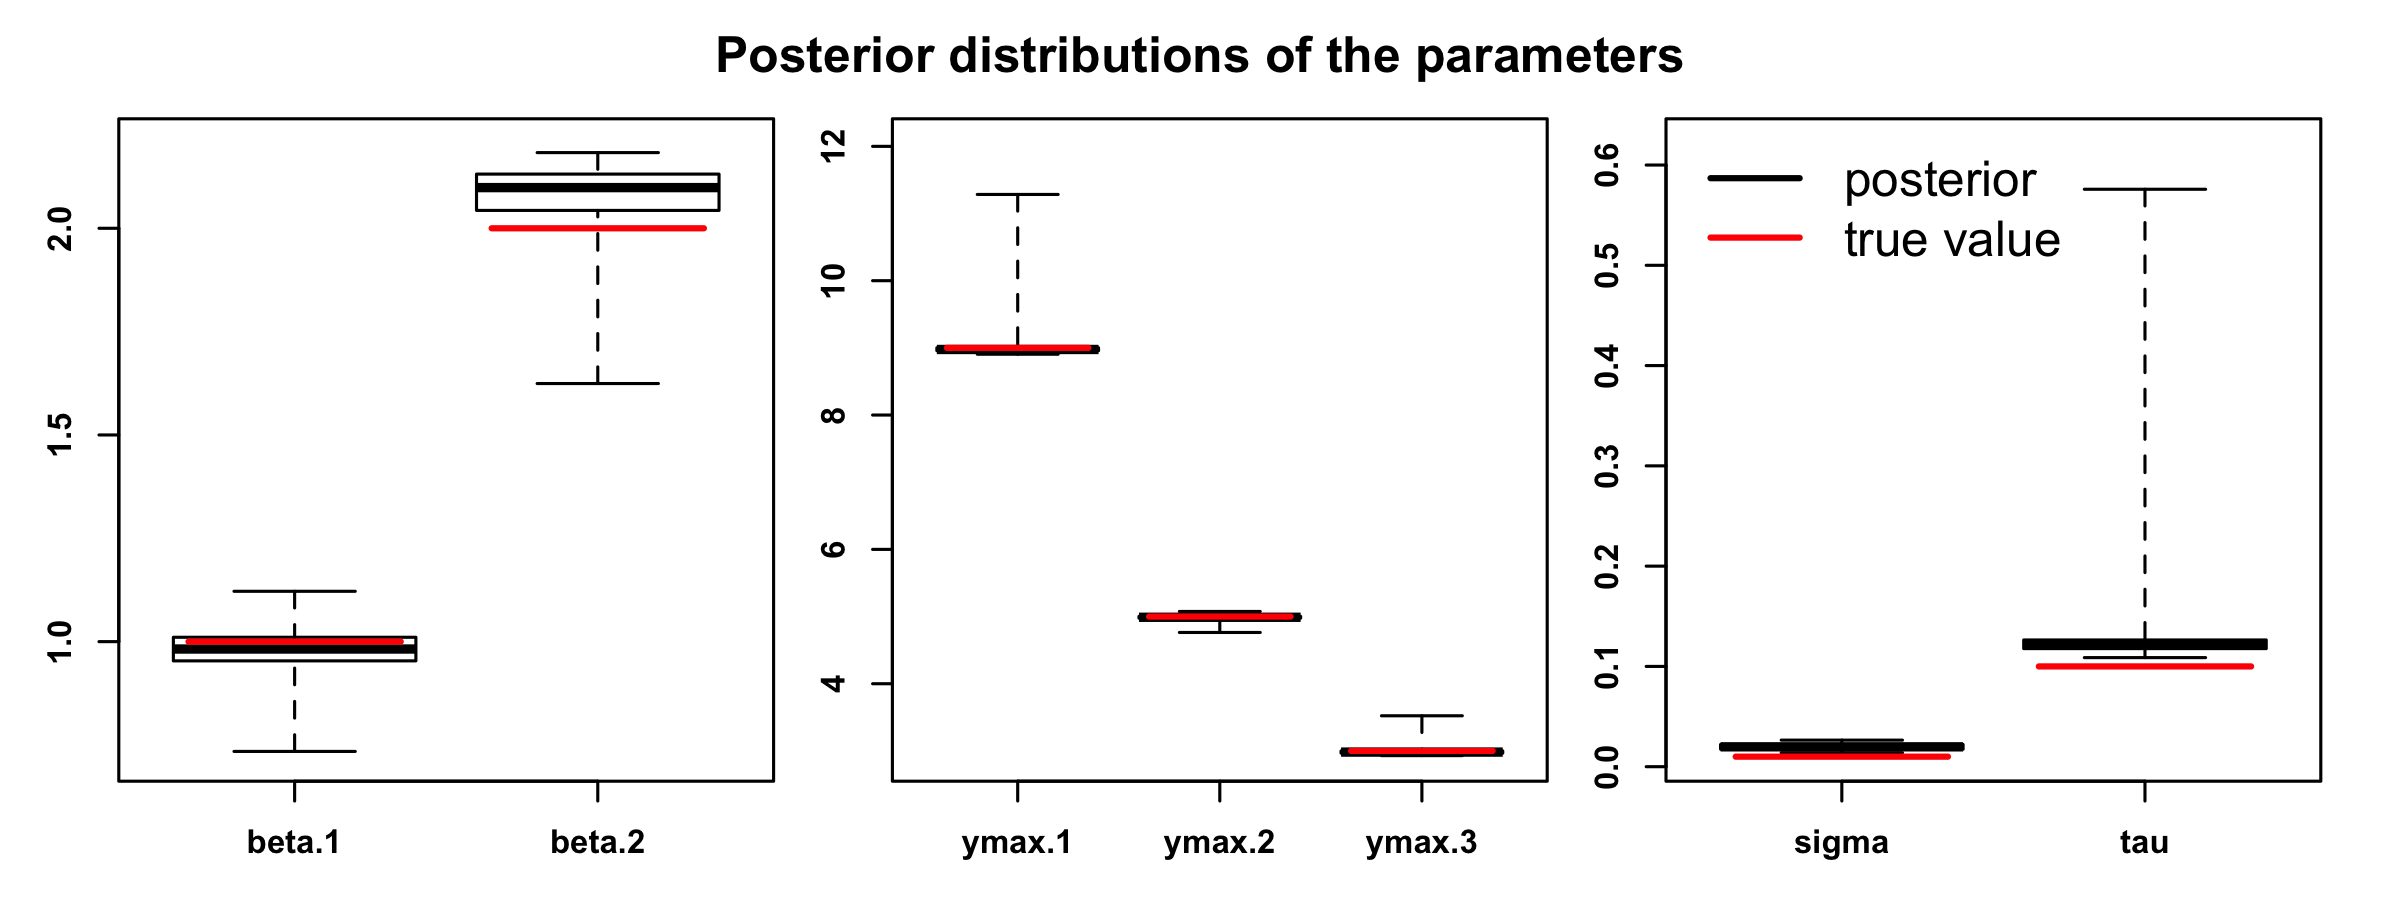
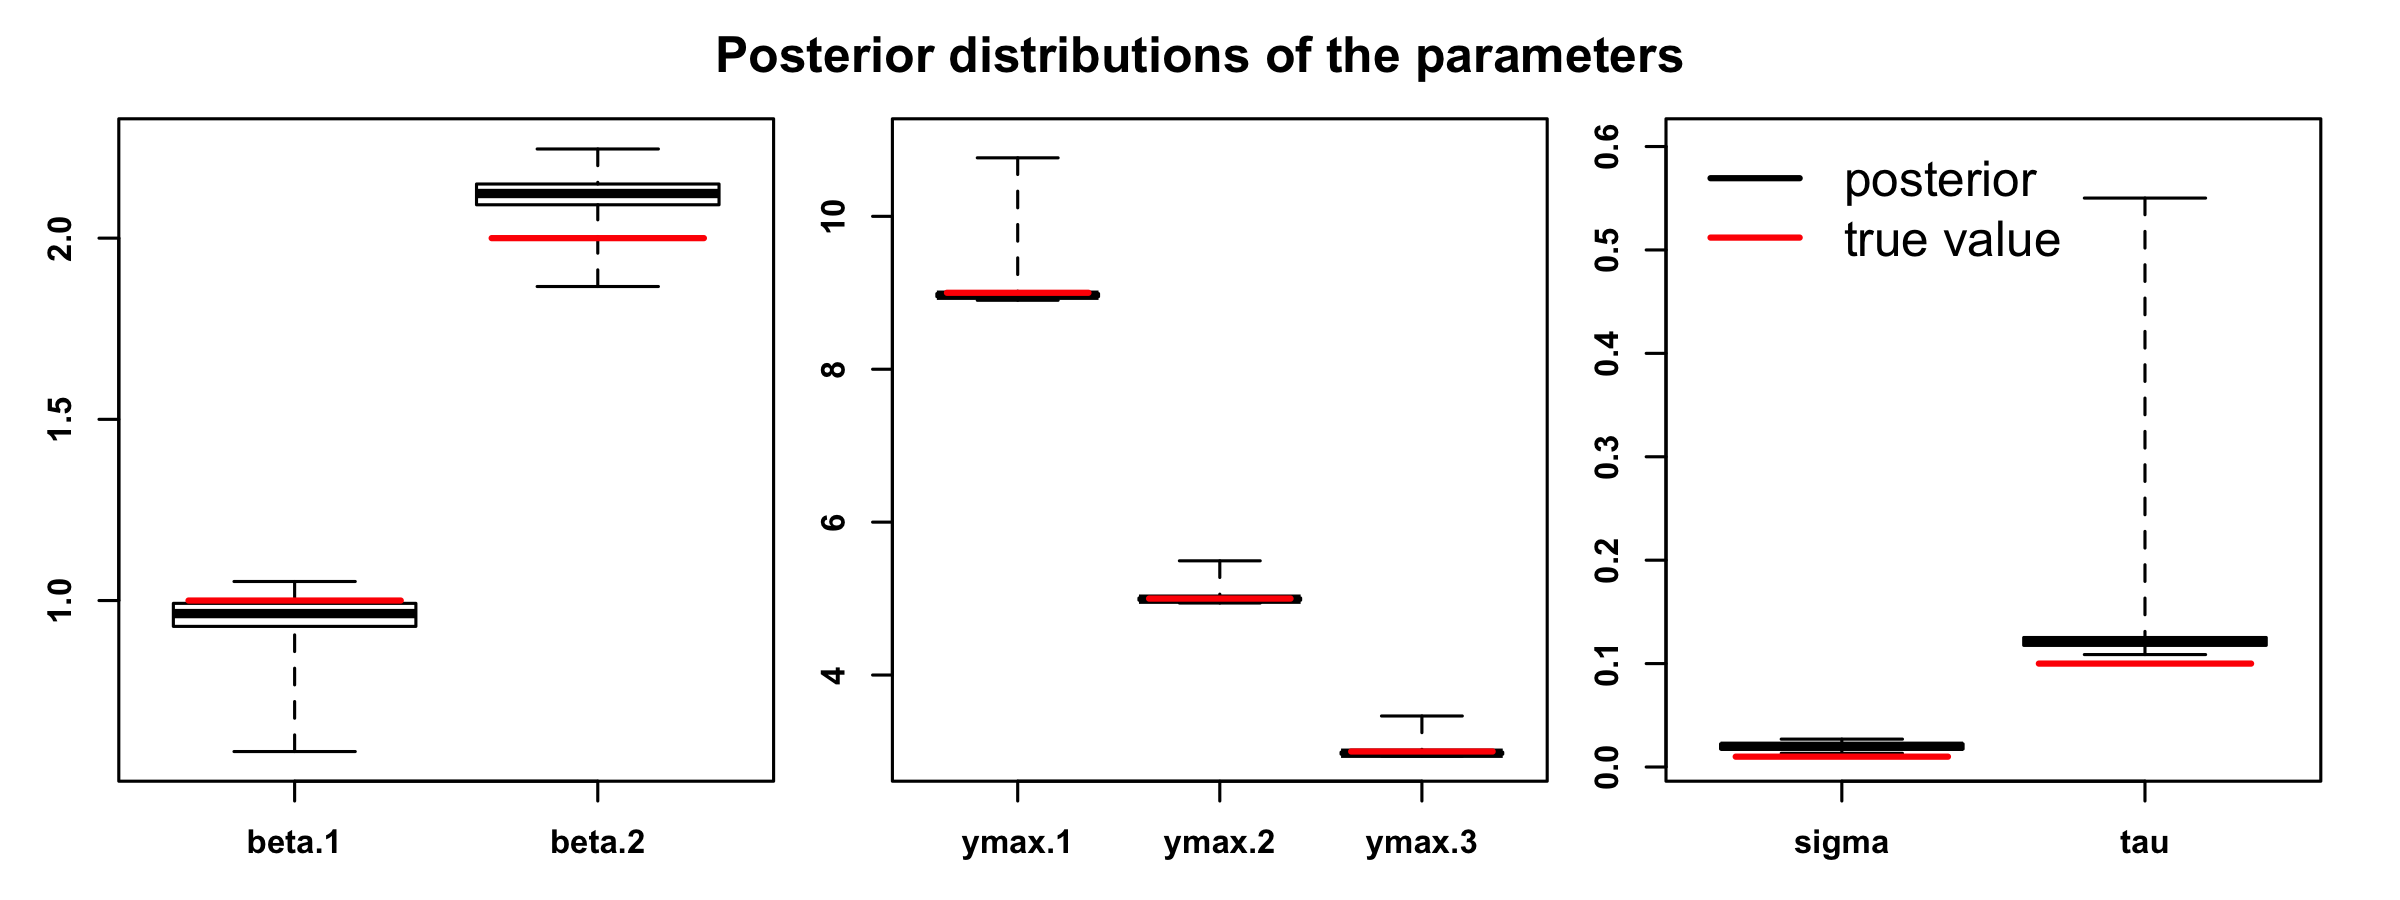
figures

diff --git a/README.md b/README.md
@@ -1,7 +1,7 @@
 ---
 output:
-  pdf_document: default
   html_document: default
+  pdf_document: default
 ---
 # phenoCDM
 Continuous development models for incremental time-series analysis: applications on leaf phenology
@@ -38,8 +38,9 @@ ssSim <- phenoSim(nSites = 3, #number of sites
                   sig = 0.01, #process error
                   tau = 0.1, #observation error
                   plotFlag = F, #whether plot the data or not
-                  miss = 0.1, #fraction of missing data
+                  miss = 0.1, #portion of missing data
                   ymax = c(9,5, 3) #maximum of saturation trajectory)
+
 
 ```
 
@@ -52,37 +53,39 @@ ww2 <- which(is.na( ssSim$connect[,2]))
 
 png('fig1.png', width = 6, height = 3, units = 'in', res = 300)
 
-par(mfrow = c(1,3), oma = c(3,2,1,1), mar=c(2,2,0,1))
-
+par(mfrow = c(1,3), oma = c(4,4,3,3), mar=c(0,1,0,0))
 for(i in 1:length(ww1))  {
   z <- ssSim$z[ww1[i]:ww2[i]]
   ymax <- ssSim$ymax[i]
-  plot(z, xlab = 'Index', ylab = '', type = 'b', ylim = range(c(0, ymax, z), na.rm = T))
-  mtext(paste('Set', i), side = 1, line = -2, col = 'blue', font=2)
+  plot(z, xlab = 'Index', ylab = '', type = 'b', ylim = range(c(0, ymax, ssSim$z), na.rm = T), yaxt= switch(i, '1'='s', '2'='n', '3' = 'n'))
+  mtext(paste('Set', i), side = 3, line = .3, col = 'blue', font=1)
   abline(h = ymax, col='red')
 }
-
 mtext(text = 'Response (z)', side = 2, line = 0.5, outer = T, font = 2)
 mtext(text = 'Index', side = 1, line = 0.5, outer = T, font = 2)
+mtext('Simulated time-series data', side = 3, outer = T, line = 1, font = 2)
+legend('bottomright', legend = c('z', 'ymax'), col = c('black', 'red'), lty = 1, bty = 'n', cex=1.5, lwd =2)
 
 dev.off()
 
 ```
 
-[!Figure 1. Simulated data](fig1.png)
+![Figure 1. Simulated data ](fig1.png)
+
+
 
 
 
 Fitting the CDM model on the simulated data:
 ```{r, echo=TRUE}
 
-ssOut <- fitCDM(x = ssSim$x, #predictors  
+ssOut <- fitCDM(x = ssSim$x, #predictors
                 nGibbs = 2000,
                 nBurnin = 1000,
                 z = ssSim$z,#response
                 connect = ssSim$connect, #connectivity of time data
-                quiet=T)
-
+                quiet=T,
+                calcLatentGibbs = T)
 ```
 
 
@@ -103,12 +106,13 @@ Comparing the model fitted parameters agaist true values:
 ```{r, echo=TRUE}
 
 png('fig2.png', width = 8, height = 3, units = 'in', res = 300)
-
-par(mfrow = c(1,3), oma = c(1,1,1,1), mar=c(2,2,0,1), font.axis=2)
+par(mfrow = c(1,3), oma = c(1,1,3,1), mar=c(2,2,0,1), font.axis=2)
 
 plotPost(chains = ssOut$chains[,c("beta.1", "beta.2")], trueValues = ssSim$beta)
 plotPost(chains = ssOut$chains[,c("ymax.1", "ymax.2", "ymax.3")], trueValues = ssSim$ymax)
 plotPost(chains = ssOut$chains[,c("sigma", "tau")], trueValues = c(ssSim$sig, ssSim$tau))
+mtext('Posterior distributions of the parameters', side = 3, outer = T, line = 1, font = 2)
+legend('topleft', legend = c('posterior', 'true value'), col = c('black', 'red'), lty = 1, bty = 'n', cex=1.5, lwd =2)
 
 dev.off()
 
@@ -121,8 +125,6 @@ dev.off()
 
 Comparing the model fitted parameters agaist true values:
 ```{r, echo=TRUE}
-
-
 
 yGibbs <- t(apply(ssOut$rawsamples$y, 1:2, mean))
 o <- ssOut$data$z
@@ -140,6 +142,7 @@ legend('topleft', legend = c('predictions', '95th percentile', '1:1 line'),
        lty = c(NA, 1, 2), lwd =c(NA, 2, 2), pch = c(16, NA, NA))
 
 dev.off()
+
 
 ```
 
